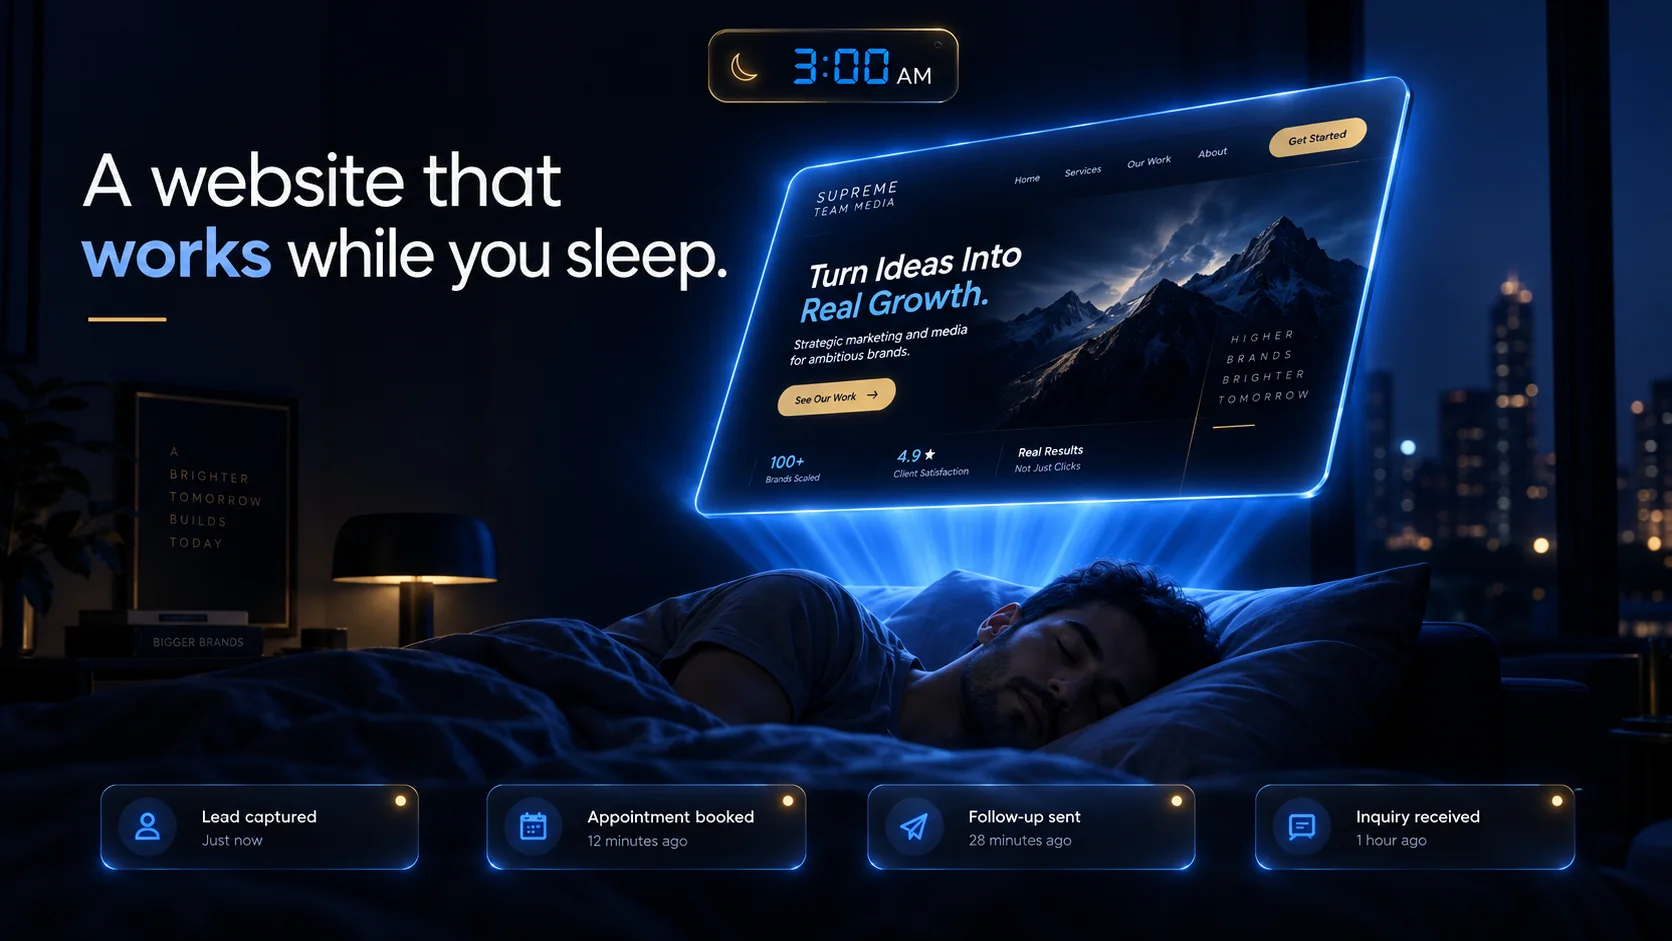
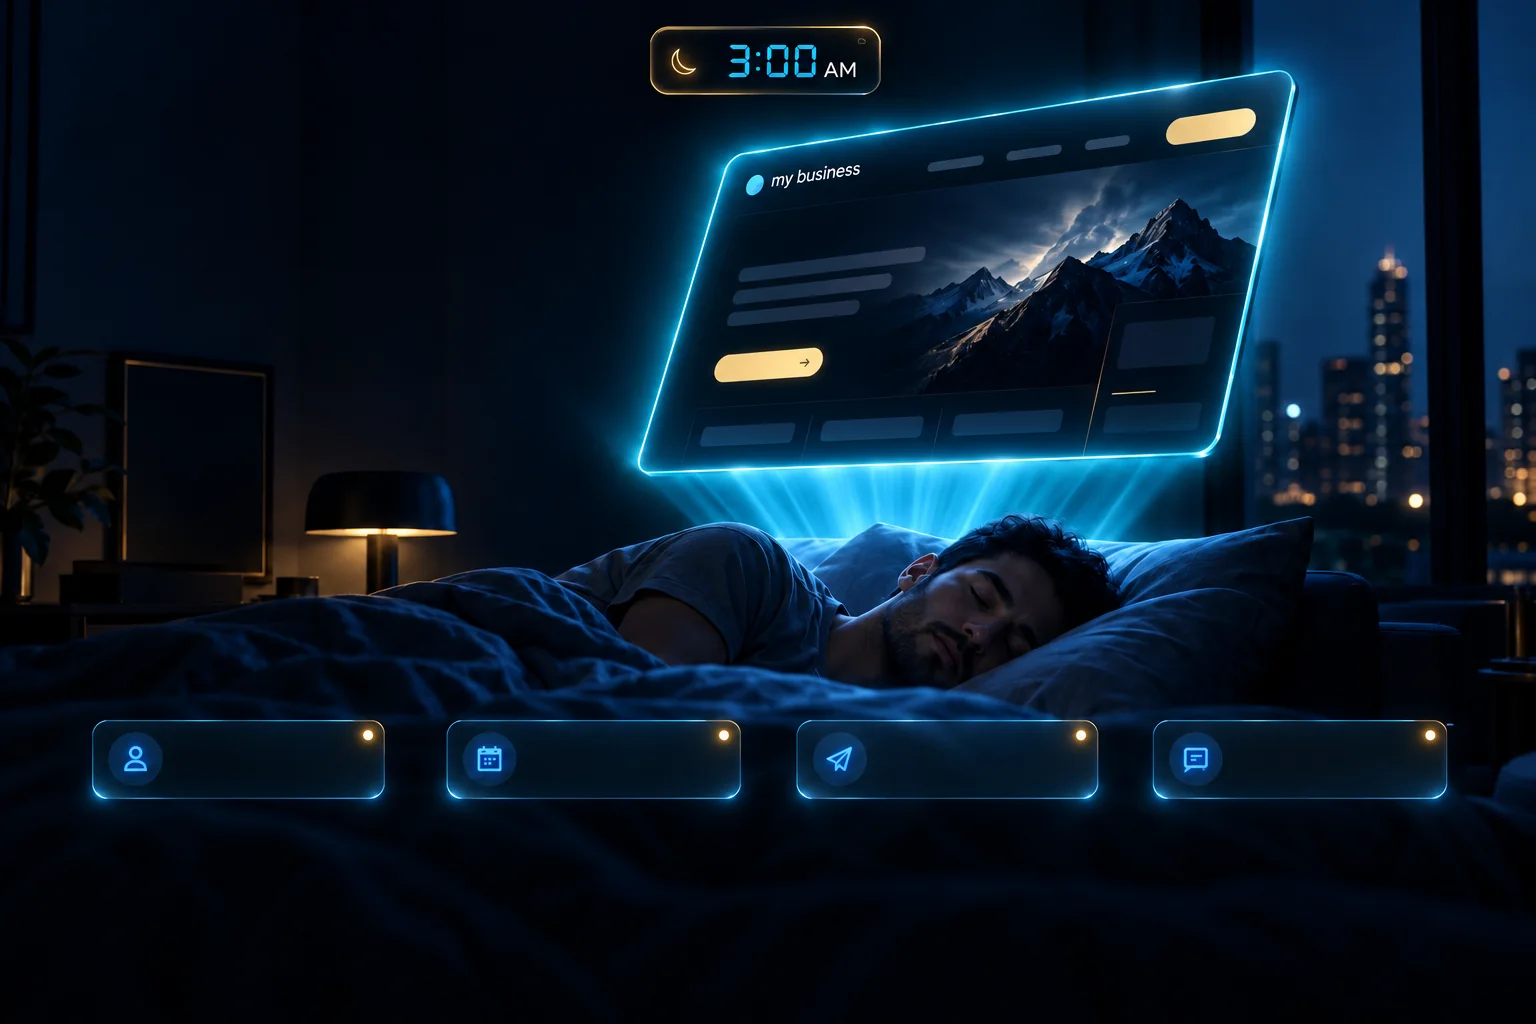
Clean-plate 3 AM render with live headline and receipts
The owner's new render has no baked text, so the section now seats
live type into it: the headline sits in the empty upper-left room
with the glow-blue works accent and a gold underline, and the four
overnight receipts (Lead captured, Appointment booked, Follow-up
sent, Inquiry received) render as real text over the image's empty
slots, positioned from measured pixel geometry and fading in one by
one. On phones the overlay hides and the receipts become readable
glow chips under the image. Asset drops to 68KB.

Claude-Session: https://claude.ai/code/session_01UEQ51seTp4ZgqmBrAsFJok

diff --git a/src/components/marketing/studio/sections/afterDark.css b/src/components/marketing/studio/sections/afterDark.css
@@ -1,15 +1,49 @@
-/* After Dark: the one-big-message back-end section. Night room, the 3 AM
-   render as the whole story, one line of copy and two doors out.
-   Public motion is progressive enhancement: visible by default when
-   IntersectionObserver is absent, in-view animated otherwise, static under
-   reduced motion. */
+/* After Dark: the one-big-message back-end section. Clean-plate night render;
+   headline and the four overnight receipts are live text seated into the
+   render's empty slots. Slot geometry measured from the 1536x1024 image:
+   icon centers x=137/489/841/1193, card band centered at y=74%.
+   Public motion is progressive enhancement: visible by default without
+   IntersectionObserver, in-view animated otherwise, static under reduced
+   motion. On phones the overlay hides and real chips render below. */
 .stm-studio .stm-dark{position:relative;overflow:hidden;padding:104px 0 110px;background:hsl(var(--opening-night));color:hsl(var(--opening-ivory))}
 .stm-studio .stm-dark::before{content:"";position:absolute;left:50%;top:46%;width:min(1100px,86vw);height:520px;transform:translate(-50%,-50%);background:radial-gradient(50% 50% at 50% 50%, rgba(59,130,246,.14), transparent 70%);pointer-events:none}
-.stm-studio .stm-dark-srtitle{position:absolute;width:1px;height:1px;padding:0;margin:-1px;overflow:hidden;clip:rect(0 0 0 0);white-space:nowrap;border:0}
-.stm-studio .stm-dark-frame{position:relative;width:min(92%,1240px);margin:0 auto;opacity:0;transform:translateY(18px);transition:opacity .8s cubic-bezier(.22,1,.36,1),transform .8s cubic-bezier(.22,1,.36,1)}
+.stm-studio .stm-dark-stage{position:relative;width:min(92%,1240px);margin:0 auto;container-type:inline-size}
+.stm-studio .stm-dark-frame{position:relative;opacity:0;transform:translateY(18px);transition:opacity .8s cubic-bezier(.22,1,.36,1),transform .8s cubic-bezier(.22,1,.36,1)}
 .stm-studio .stm-dark-frame.on{opacity:1;transform:none}
 .stm-studio .stm-dark-frame img{display:block;width:100%;height:auto;border-radius:22px;box-shadow:0 30px 90px rgba(0,0,0,.55),0 0 0 1px rgba(249,246,241,.07)}
 .stm-studio .stm-dark-floor{position:absolute;left:50%;bottom:-70px;width:72%;height:120px;transform:translateX(-50%);background:radial-gradient(50% 55% at 50% 38%, rgba(59,130,246,.22), transparent 72%);filter:blur(14px);pointer-events:none}
+
+/* Headline, seated in the render's empty upper-left room */
+.stm-studio .stm-dark-title{position:absolute;z-index:2;left:4.8%;top:13.5%;margin:0;font:800 4.4cqw/1.1 "Inter Tight",sans-serif;letter-spacing:-.02em;color:#F4F8FD;text-shadow:0 2px 18px rgba(0,10,25,.75);opacity:0;transform:translateY(12px);transition:opacity .7s ease .25s,transform .7s cubic-bezier(.22,1,.36,1) .25s}
+.stm-studio .stm-dark-title.on{opacity:1;transform:none}
+.stm-studio .stm-dark-title span{display:block}
+.stm-studio .stm-dark-title b{color:#7CBDFF;font-weight:800;text-shadow:0 0 18px rgba(80,160,255,.65),0 2px 18px rgba(0,10,25,.75)}
+.stm-studio .stm-dark-title::after{content:"";display:block;width:64px;height:3px;margin-top:1.4cqw;border-radius:3px;background:linear-gradient(90deg,#F6C65A,#E89A2B)}
+
+/* Receipts, seated over the render's four empty slots (desktop) */
+.stm-studio .stm-dark-receipts{position:absolute;inset:0;z-index:2;pointer-events:none}
+.stm-studio .stm-dark-receipt{position:absolute;top:74%;transform:translateY(-50%);width:13%;display:grid;gap:.25cqw;text-align:left;opacity:0;transition:opacity .6s ease}
+.stm-studio .stm-dark-receipt strong{font:700 1.2cqw/1.25 Inter,sans-serif;color:#EAF4FF;text-shadow:0 1px 8px rgba(0,25,55,.85);white-space:nowrap}
+.stm-studio .stm-dark-receipt small{font:500 .95cqw/1.2 Inter,sans-serif;color:rgba(170,205,255,.78);text-shadow:0 1px 8px rgba(0,25,55,.85)}
+.stm-studio .stm-dark-receipt.r1{left:11.4%}
+.stm-studio .stm-dark-receipt.r2{left:34.3%}
+.stm-studio .stm-dark-receipt.r3{left:57.2%}
+.stm-studio .stm-dark-receipt.r4{left:80.1%}
+.stm-studio .stm-dark-frame.on .stm-dark-receipt{opacity:1}
+.stm-studio .stm-dark-frame.on .stm-dark-receipt.r1{transition-delay:.9s}
+.stm-studio .stm-dark-frame.on .stm-dark-receipt.r2{transition-delay:1.3s}
+.stm-studio .stm-dark-frame.on .stm-dark-receipt.r3{transition-delay:1.7s}
+.stm-studio .stm-dark-frame.on .stm-dark-receipt.r4{transition-delay:2.1s}
+
+/* Mobile chips: the readable version of the receipts under the image */
+.stm-studio .stm-dark-chips{display:none;list-style:none;margin:18px 0 0;padding:0;grid-template-columns:repeat(2,1fr);gap:10px;opacity:0;transition:opacity .6s ease .2s}
+.stm-studio .stm-dark-chips.on{opacity:1}
+.stm-studio .stm-dark-chips li{display:flex;align-items:center;gap:10px;padding:11px 13px;border-radius:14px;background:rgba(13,20,32,.82);border:1px solid rgba(110,180,255,.35);box-shadow:0 0 18px rgba(50,120,230,.15)}
+.stm-studio .stm-dark-chip-ic{flex:0 0 auto;width:34px;height:34px;border-radius:50%;display:grid;place-items:center;background:rgba(45,95,170,.45);border:1px solid rgba(130,195,255,.5);color:#BFE0FF}
+.stm-studio .stm-dark-chip-ic svg{width:17px;height:17px}
+.stm-studio .stm-dark-chips strong{display:block;font:700 13.5px/1.25 Inter,sans-serif;color:#EAF4FF}
+.stm-studio .stm-dark-chips small{font:500 11px/1.2 Inter,sans-serif;color:rgba(170,205,255,.75)}
+
 .stm-studio .stm-dark-copy{position:relative;width:min(92%,1240px);margin:44px auto 0;text-align:center;opacity:0;transform:translateY(14px);transition:opacity .7s ease .15s,transform .7s cubic-bezier(.22,1,.36,1) .15s}
 .stm-studio .stm-dark-copy.on{opacity:1;transform:none}
 .stm-studio .stm-dark-copy p{margin:0 auto;max-width:52ch;font-size:clamp(19px,1.6vw,23px);line-height:1.55;color:hsl(var(--opening-ivory) / .86)}
@@ -19,13 +53,19 @@
 .stm-studio .stm-dark-btn.gold{background:linear-gradient(135deg,#F6C65A,#E89A2B);color:#101412;box-shadow:0 10px 26px rgba(232,154,43,.3)}
 .stm-studio .stm-dark-btn.wine{background:#5E1F2E;color:#F9F6F1;border:1px solid #8C2F43}
 .stm-studio .stm-dark-btn.wine:hover{background:#8C2F43}
+
 @media (max-width:760px){
   .stm-studio .stm-dark{padding:64px 0 72px}
-  .stm-studio .stm-dark-frame{width:auto;margin:0 12px}
+  .stm-studio .stm-dark-stage{width:auto;margin:0 12px}
+  .stm-studio .stm-dark-title{position:static;font-size:clamp(30px,8.4vw,40px);text-align:center;margin-bottom:20px}
+  .stm-studio .stm-dark-title::after{margin:14px auto 0}
   .stm-studio .stm-dark-frame img{border-radius:14px}
+  .stm-studio .stm-dark-receipts{display:none}
+  .stm-studio .stm-dark-chips{display:grid}
   .stm-studio .stm-dark-copy{margin-top:30px}
   .stm-studio .stm-dark-copy p{font-size:17.5px}
 }
 @media (prefers-reduced-motion: reduce){
-  .stm-studio .stm-dark-frame,.stm-studio .stm-dark-copy{opacity:1 !important;transform:none !important;transition:none !important}
+  .stm-studio .stm-dark-frame,.stm-studio .stm-dark-copy,.stm-studio .stm-dark-title,.stm-studio .stm-dark-chips,.stm-studio .stm-dark-receipt{opacity:1 !important;transform:none !important;transition:none !important}
+  .stm-studio .stm-dark-receipt{transform:translateY(-50%) !important}
 }

diff --git a/src/components/marketing/studio/sections/AfterDark.tsx b/src/components/marketing/studio/sections/AfterDark.tsx
@@ -1,15 +1,24 @@
 import { useEffect, useRef } from "react";
-import { ArrowRight } from "lucide-react";
+import { ArrowRight, CalendarDays, MessageSquare, Send, UserRound } from "lucide-react";
 import { Link } from "react-router-dom";
 import { getStudioMedia } from "@/config/studioMedia";
 import { trackSiteEvent } from "@/lib/studioAnalytics";
 import "./afterDark.css";
 
 /**
- * The back-end section: one big simple message. The 3 AM render carries the
- * headline and the overnight receipts; the copy below it names the systems
- * and routes to them. Media swaps via the "home-after-dark" studioMedia entry.
+ * The back-end section: one big simple message. The clean-plate 3 AM render
+ * carries the scene; headline and the four overnight receipts are live text
+ * seated into the render's empty slots (measured from the image pixels), so
+ * copy stays crisp and editable. On phones the receipts become real chips
+ * under the image. Media swaps via the "home-after-dark" studioMedia entry.
  */
+const RECEIPTS = [
+  { label: "Lead captured", time: "Just now", icon: UserRound },
+  { label: "Appointment booked", time: "12 minutes ago", icon: CalendarDays },
+  { label: "Follow-up sent", time: "28 minutes ago", icon: Send },
+  { label: "Inquiry received", time: "1 hour ago", icon: MessageSquare },
+] as const;
+
 export function AfterDark() {
   const sectionRef = useRef<HTMLElement | null>(null);
   const art = getStudioMedia("home-after-dark");
@@ -32,10 +41,31 @@ export function AfterDark() {
 
   return (
     <section ref={sectionRef} id="after-dark" className="stm-dark" aria-labelledby="after-dark-title">
-      <h2 id="after-dark-title" className="stm-dark-srtitle">A website that works while you sleep.</h2>
-      <div className="stm-dark-frame" data-watch>
-        {art?.src && <img src={art.src} alt={art.alt} width={art.width} height={art.height} loading="lazy" />}
-        <div className="stm-dark-floor" aria-hidden="true" />
+      <div className="stm-dark-stage">
+        <h2 id="after-dark-title" className="stm-dark-title" data-watch>
+          <span>A website that</span>
+          <span><b>works</b> while you sleep.</span>
+        </h2>
+        <div className="stm-dark-frame" data-watch>
+          {art?.src && <img src={art.src} alt={art.alt} width={art.width} height={art.height} loading="lazy" />}
+          <div className="stm-dark-receipts">
+            {RECEIPTS.map((item, index) => (
+              <span key={item.label} className={`stm-dark-receipt r${index + 1}`}>
+                <strong>{item.label}</strong>
+                <small>{item.time}</small>
+              </span>
+            ))}
+          </div>
+          <div className="stm-dark-floor" aria-hidden="true" />
+        </div>
+        <ul className="stm-dark-chips" data-watch aria-label="Overnight activity">
+          {RECEIPTS.map((item) => (
+            <li key={item.label}>
+              <span className="stm-dark-chip-ic" aria-hidden="true"><item.icon /></span>
+              <span><strong>{item.label}</strong><small>{item.time}</small></span>
+            </li>
+          ))}
+        </ul>
       </div>
       <div className="stm-dark-copy" data-watch>
         <p>The systems behind your site answer calls, reply to leads and book jobs around the clock.</p>

diff --git a/src/config/studioMedia.ts b/src/config/studioMedia.ts
@@ -81,10 +81,10 @@ export const STUDIO_MEDIA: Record<string, StudioMediaSlot> = {
   },
   "home-after-dark": {
     src: afterDark3am,
-    alt: "A business owner asleep at 3:00 AM while his glowing website floats above, capturing a lead, booking an appointment and sending follow-ups",
-    aspectRatio: "1672 / 941",
-    width: 1672,
-    height: 941,
+    alt: "A business owner asleep at 3:00 AM while his glowing website floats above the bed, with four notification slots lighting up below",
+    aspectRatio: "1536 / 1024",
+    width: 1536,
+    height: 1024,
     objectFit: "contain",
   },
   "home-opening-chess": {
